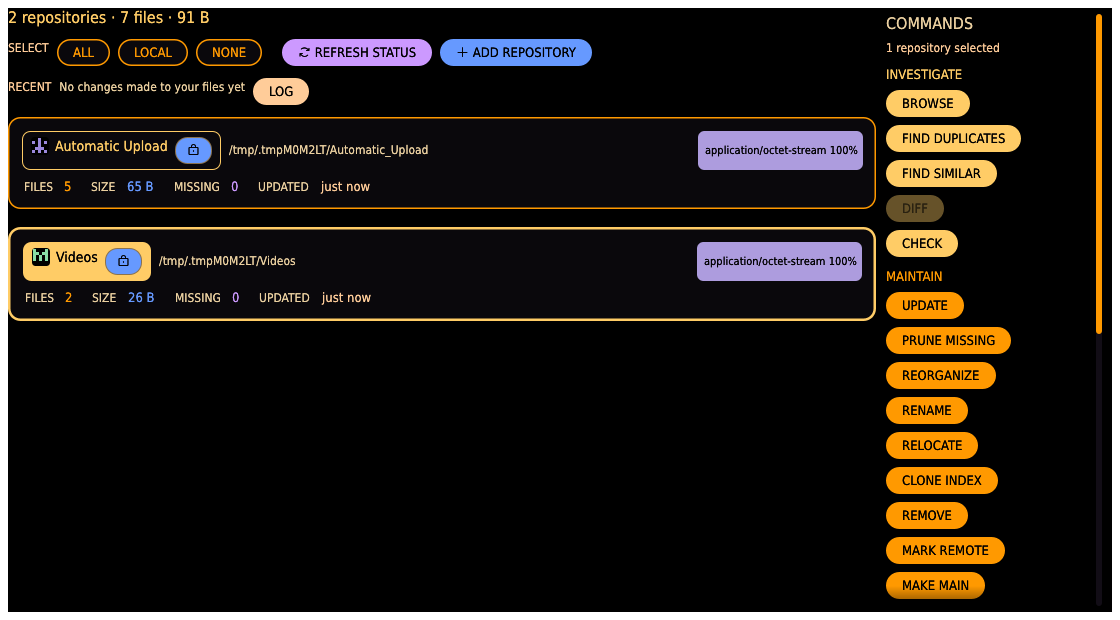
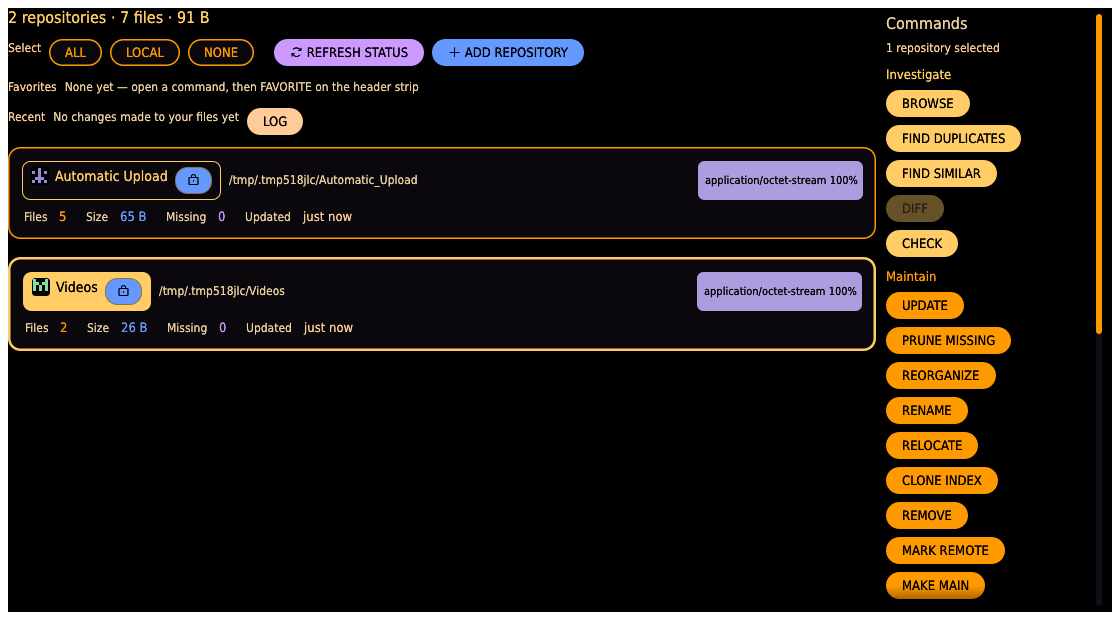
Keep LCARS as skin: header bars instead of elbow rails (#14)
A section is now a stadium header bar with its body on a panel; the elbow
rail and the concave corner are gone, so every board gets the rail's width
back and the start page's groups read as a bar over their cards. The
palette, the condensed font and the stadium buttons stay. List headers and
card stats read in sentence case (Commands, Investigate, Select, Favorites,
Recent, Files, Size, Missing, Updated, Sort); command names, buttons and
badges stay uppercase. Doc screenshots regenerated for the start page, the
group frame and both palettes.

Changed region(s): [[0.0, 0.0613, 0.8438, 0.5823], [0.7812, 0.0919, 0.875, 0.1532], [0.7812, 0.0306, 0.875, 0.0613]]

diff --git a/crates/dedup-gui/src/lcars.rs b/crates/dedup-gui/src/lcars.rs
@@ -11,7 +11,7 @@
 
 use crate::icon;
 use crate::theme;
-use egui::{Align2, Color32, CornerRadius, Rect, Sense, Stroke, StrokeKind, Vec2, pos2};
+use egui::{Align2, Color32, CornerRadius, Sense, Stroke, StrokeKind, Vec2, pos2};
 
 /// A dim, same-hue fill for the hover state of an unselected button.
 fn tint(accent: Color32) -> Color32 {
@@ -102,14 +102,13 @@ pub fn action_button(
     resp
 }
 
-/// Rail width, header-bar height, and the concave inner-elbow radius (points).
-const RAIL_W: f32 = 16.0;
+/// Header-bar height (points).
 const HEAD_H: f32 = 22.0;
-const ELBOW_R: f32 = 12.0;
 
-/// A section framed by the LCARS elbow rail. `title` is set into the header cap
-/// bar (black on `accent`); `add` renders the section body, inset to the right of
-/// the rail and below the header.
+/// A titled section (ADR 0004: LCARS as skin, not layout): a stadium header
+/// bar in `accent` with the title set into it, and the body on a panel below.
+/// The elbow rail that used to run down the left is gone — it cost every
+/// board a rail's width and framed nothing a header bar does not.
 ///
 /// Every section is collapsible: clicking the header bar folds the body down to
 /// a single stadium bar (the caret before the title shows the state), and the
@@ -214,27 +213,28 @@ pub fn section_lcars_folding<R>(
     out
 }
 
-/// The open form of a section: elbow chrome, caret-down before the title, and
-/// the clickable header bar whose response is returned alongside the body's
-/// result.
+/// The open form of a section: the header bar with a caret-down before the
+/// title, and the body on its panel; the clickable header bar's response is
+/// returned alongside the body's result.
 fn section_impl<R>(
     ui: &mut egui::Ui,
     title: &str,
     accent: Color32,
     add: impl FnOnce(&mut egui::Ui) -> R,
 ) -> (R, egui::Response) {
-    // Reserve a paint slot *behind* the body: the elbow chrome (and the dark body
-    // background that forms the concave curve) draw here, so the body's own
-    // widgets always render on top of it and are never overpainted.
-    let bg = ui.painter().add(egui::Shape::Noop);
+    let header = header_bar(ui, &format!("{} {title}", icon::CARET_DOWN), title, accent);
     let inner = egui::Frame::new()
-        // No fill — the body-panel shape painted into `bg` is the background.
+        .fill(theme::panel())
+        .corner_radius(CornerRadius {
+            nw: 0,
+            ne: 0,
+            sw: 8,
+            se: 8,
+        })
         .inner_margin(egui::Margin {
-            // Clear the rail *and* the concave elbow so the first item isn't
-            // clipped by the curve; still hug the header vertically.
-            left: (RAIL_W + ELBOW_R + 2.0) as i8,
+            left: 10,
             right: 10,
-            top: (HEAD_H + 3.0) as i8,
+            top: 8,
             bottom: 10,
         })
         .outer_margin(egui::Margin {
@@ -244,35 +244,17 @@ fn section_impl<R>(
             bottom: 8,
         })
         .show(ui, |ui| {
-            // Always claim the full panel width, so the elbow rail/header spans
-            // the whole panel even when the body's own content is narrow.
+            // Always claim the full panel width, so the header bar spans the
+            // whole panel even when the body's own content is narrow.
             ui.set_min_width(ui.available_width());
             add(ui)
         });
-    let r = inner.response.rect;
-    let painted = format!("{} {title}", icon::CARET_DOWN);
-    ui.painter()
-        .set(bg, egui::Shape::Vec(elbow_shapes(ui, r, &painted, accent)));
-    // Expose the painted title to accesskit (so tests and screen readers can find
-    // the section by name) without affecting layout. The whole header bar is
-    // the collapse click target.
-    let title_rect = Rect::from_min_max(
-        pos2(r.min.x + RAIL_W, r.min.y),
-        pos2(r.max.x, r.min.y + HEAD_H),
-    );
-    let header = ui.interact(
-        title_rect,
-        ui.id().with(("lcars_title", title)),
-        Sense::click(),
-    );
-    header.widget_info(|| egui::WidgetInfo::labeled(egui::WidgetType::Label, true, title));
     (inner.inner, header)
 }
 
-/// The collapsed form of a collapsible section: just the header bar, a full
-/// stadium with a "click to open" caret before the title. Same width and bottom
-/// spacing as the open section, so collapsing doesn't shift siblings sideways.
-fn collapsed_header(ui: &mut egui::Ui, title: &str, accent: Color32) -> egui::Response {
+/// The full-width stadium header bar of a section, `painted` set into it in
+/// the accent's ink; `title` is what accesskit (tests, screen readers) sees.
+fn header_bar(ui: &mut egui::Ui, painted: &str, title: &str, accent: Color32) -> egui::Response {
     let (rect, resp) =
         ui.allocate_exact_size(Vec2::new(ui.available_width(), HEAD_H), Sense::click());
     if ui.is_rect_visible(rect) {
@@ -284,77 +266,22 @@ fn collapsed_header(ui: &mut egui::Ui, title: &str, accent: Color32) -> egui::Re
         let p = ui.painter();
         p.rect_filled(rect, CornerRadius::same((HEAD_H / 2.0) as u8), fill);
         p.text(
-            pos2(rect.min.x + RAIL_W + 10.0, rect.center().y),
+            pos2(rect.min.x + 12.0, rect.center().y),
             Align2::LEFT_CENTER,
-            format!("{} {title}", icon::CARET_RIGHT),
+            painted,
             egui::FontId::proportional(13.0),
             theme::ink_on(accent),
         );
     }
     resp.widget_info(|| egui::WidgetInfo::labeled(egui::WidgetType::Label, true, title));
-    ui.add_space(8.0); // match the open section's bottom outer margin
     resp
 }
 
-/// The elbow chrome as a back-to-front shape list: accent rail, accent header cap
-/// bar, the dark body panel (its rounded top-left corner reveals the accent
-/// behind it — the concave elbow), and the title. Painted behind the body.
-fn elbow_shapes(ui: &egui::Ui, rect: Rect, title: &str, accent: Color32) -> Vec<egui::Shape> {
-    let out = (RAIL_W / 2.0) as u8; // rounded outer corners
-    let cap = (HEAD_H / 2.0) as u8; // rounded right cap on the header bar
-    let galley = ui.painter().layout_no_wrap(
-        title.to_owned(),
-        egui::FontId::proportional(13.0),
-        theme::ink_on(accent),
-    );
-    // Safety net: the panel is always full-width (see `section_lcars`), so this
-    // only bites for a title too long even for that — widen the chrome rather
-    // than let the galley overflow past the header bar uncontained.
-    let min_width = RAIL_W + 10.0 + galley.size().x + 10.0;
-    let rect = if rect.width() < min_width {
-        Rect::from_min_max(rect.min, pos2(rect.min.x + min_width, rect.max.y))
-    } else {
-        rect
-    };
-    let rail = Rect::from_min_max(rect.min, pos2(rect.min.x + RAIL_W, rect.max.y));
-    let head = Rect::from_min_max(rect.min, pos2(rect.max.x, rect.min.y + HEAD_H));
-    let body = Rect::from_min_max(pos2(rect.min.x + RAIL_W, rect.min.y + HEAD_H), rect.max);
-    let tpos = pos2(
-        rect.min.x + RAIL_W + 10.0,
-        rect.min.y + HEAD_H / 2.0 - galley.size().y / 2.0,
-    );
-    vec![
-        egui::Shape::rect_filled(
-            rail,
-            CornerRadius {
-                nw: out,
-                sw: out,
-                ne: 0,
-                se: 0,
-            },
-            accent,
-        ),
-        egui::Shape::rect_filled(
-            head,
-            CornerRadius {
-                nw: out,
-                ne: cap,
-                sw: 0,
-                se: cap,
-            },
-            accent,
-        ),
-        // The body panel's rounded top-left corner carves the concave elbow.
-        egui::Shape::rect_filled(
-            body,
-            CornerRadius {
-                nw: ELBOW_R as u8,
-                ne: 0,
-                sw: 0,
-                se: 0,
-            },
-            theme::panel(),
-        ),
-        egui::Shape::galley(tpos, galley, theme::ink_on(accent)),
-    ]
+/// The collapsed form of a collapsible section: just the header bar, with a
+/// "click to open" caret before the title. Same width and bottom spacing as
+/// the open section, so collapsing doesn't shift siblings sideways.
+fn collapsed_header(ui: &mut egui::Ui, title: &str, accent: Color32) -> egui::Response {
+    let resp = header_bar(ui, &format!("{} {title}", icon::CARET_RIGHT), title, accent);
+    ui.add_space(8.0); // match the open section's bottom outer margin
+    resp
 }

diff --git a/crates/dedup-gui/src/app.rs b/crates/dedup-gui/src/app.rs
@@ -661,7 +661,7 @@ impl DedupApp {
         let verbosity = self.tooltip_verbosity;
         let facts = self.repo_facts();
         ui.horizontal_wrapped(|ui| {
-            ui.label(RichText::new("FAVORITES").color(theme::tan()).size(12.0));
+            ui.label(RichText::new("Favorites").color(theme::tan()).size(12.0));
             if self.favorites.is_empty() {
                 ui.label(
                     RichText::new("None yet — open a command, then FAVORITE on the header strip")
@@ -1969,7 +1969,7 @@ impl DedupApp {
                     .auto_shrink([false, false])
                     .show(ui, |ui| {
                         ui.label(
-                            RichText::new("COMMANDS")
+                            RichText::new("Commands")
                                 .color(theme::text())
                                 .size(16.0)
                                 .strong(),
@@ -2060,7 +2060,7 @@ impl DedupApp {
     fn last_runs_row(&mut self, ui: &mut egui::Ui) {
         let verbosity = self.tooltip_verbosity;
         ui.horizontal_wrapped(|ui| {
-            ui.label(RichText::new("RECENT").color(theme::tan()).size(12.0));
+            ui.label(RichText::new("Recent").color(theme::tan()).size(12.0));
             if self.last_runs.is_empty() {
                 ui.label(
                     RichText::new("No changes made to your files yet")
@@ -2102,7 +2102,7 @@ impl DedupApp {
     fn selection_row(&mut self, ui: &mut egui::Ui, actions: &mut Vec<Action>) {
         let verbosity = self.tooltip_verbosity;
         ui.horizontal_wrapped(|ui| {
-            ui.label(RichText::new("SELECT").color(theme::tan()).size(12.0));
+            ui.label(RichText::new("Select").color(theme::tan()).size(12.0));
             if crate::lcars::toggle_button(ui, "ALL", false, theme::orange())
                 .explain(
                     verbosity,
@@ -2475,7 +2475,7 @@ impl DedupApp {
                 ui.horizontal(|ui| {
                     stat(
                         ui,
-                        "FILES",
+                        "Files",
                         &row.stats.file_count.to_string(),
                         theme::orange(),
                         "Indexed files (missing files excluded)",
@@ -2486,7 +2486,7 @@ impl DedupApp {
                     );
                     stat(
                         ui,
-                        "SIZE",
+                        "Size",
                         &format_size(row.stats.total_size),
                         theme::blue(),
                         "Total size of indexed files",
@@ -2496,7 +2496,7 @@ impl DedupApp {
                     );
                     stat(
                         ui,
-                        "MISSING",
+                        "Missing",
                         &row.stats.missing_count.to_string(),
                         theme::lilac(),
                         "Indexed before but no longer on disk",
@@ -2508,7 +2508,7 @@ impl DedupApp {
                     let exact = format_last_scan(row.stats.last_scan_ms);
                     stat(
                         ui,
-                        "UPDATED",
+                        "Updated",
                         &scan_age(row.stats.last_scan_ms, now_ms()),
                         theme::tan(),
                         &exact,

diff --git a/crates/dedup-gui/src/browse_view.rs b/crates/dedup-gui/src/browse_view.rs
@@ -1129,7 +1129,7 @@ impl BrowseView {
         let (sort_col, sort_asc) = (self.sort_col, self.sort_asc);
         let mut clicked_header: Option<SortCol> = None;
         ui.horizontal_wrapped(|ui| {
-            ui.label(RichText::new("SORT").color(theme::text()).size(11.0));
+            ui.label(RichText::new("Sort").color(theme::text()).size(11.0));
             for (col, title) in cols {
                 if crate::util::sort_header(ui, title, sort_col == col, sort_asc).clicked() {
                     clicked_header = Some(col);
@@ -3012,7 +3012,9 @@ mod tests {
         let store_ui = Arc::clone(&store);
         let mut init = false;
         let mut h = Harness::builder()
-            .with_size(egui::vec2(1000.0, 1000.0))
+            // Tall enough that the second board row sits above the preview
+            // dock: the board draws rows at their full height now.
+            .with_size(egui::vec2(1000.0, 1300.0))
             .build_ui_state(
                 move |ui, view: &mut BrowseView| {
                     if !init {
@@ -3020,7 +3022,7 @@ mod tests {
                         crate::theme::apply(ui.ctx(), crate::theme::DARK);
                         init = true;
                     }
-                    ui.allocate_ui(egui::vec2(ui.available_width(), 900.0), |ui| {
+                    ui.allocate_ui(egui::vec2(ui.available_width(), 1200.0), |ui| {
                         view.show(ui, &store_ui, TooltipVerbosity::default());
                     });
                 },

diff --git a/crates/dedup-gui/src/board.rs b/crates/dedup-gui/src/board.rs
@@ -1533,7 +1533,7 @@ fn controls_bar(
             }
             ui.add_space(12.0);
         }
-        ui.label(RichText::new("SORT").color(theme::text()).size(11.0));
+        ui.label(RichText::new("Sort").color(theme::text()).size(11.0));
         if two_sided {
             for (is_left, label) in [(true, "LEFT"), (false, "RIGHT")] {
                 if crate::lcars::toggle_button(
@@ -1873,7 +1873,7 @@ mod tests {
             );
         harness.run_steps(2);
         assert!(
-            harness.query_by_label("SORT").is_none(),
+            harness.query_by_label("Sort").is_none(),
             "a listing sorts itself: no sort bar"
         );
         let zulu = harness.get_by_label_contains("zulu/0").rect();

diff --git a/crates/dedup-gui/src/start_page.rs b/crates/dedup-gui/src/start_page.rs
@@ -23,10 +23,10 @@ pub(crate) enum Intent {
 impl Intent {
     fn label(self) -> &'static str {
         match self {
-            Intent::Investigate => "INVESTIGATE",
-            Intent::Maintain => "MAINTAIN",
-            Intent::Move => "MOVE",
-            Intent::Clean => "CLEAN",
+            Intent::Investigate => "Investigate",
+            Intent::Maintain => "Maintain",
+            Intent::Move => "Move",
+            Intent::Clean => "Clean",
         }
     }
 

diff --git a/CHANGELOG.md b/CHANGELOG.md
@@ -58,6 +58,12 @@ All notable changes to the `dedup-rs` project will be documented in this file.
   or its name — opens the viewer; the right-click menu is the same as before
   plus COPY NAME. Everything scrolls as one list instead of a sideways strip
   per group.
+- **LCARS stays as the skin, not as layout law.** The palette, the
+  condensed font and the stadium buttons remain; the elbow rail that ran
+  down the left of every section is gone, so a section is a header bar with
+  its body on a panel and every board gets the rail's width back. List
+  headers and card stats read in sentence case (Commands, Investigate,
+  Files, Updated); command names, buttons and badges stay uppercase.
 - **The start page states the facts before you choose.** One line over the
   cards sums the repositories, files and bytes the app looks after. A card's
   UPDATED stat reads as people say it — "just now", "3 hours ago", "9 days

diff --git a/docs/gui/start-page.md b/docs/gui/start-page.md
@@ -144,7 +144,7 @@ A **backup group** links one **main** repository to one or more **backup** repos
 - **LEAVE GROUP** (a backup selected) — take it back out of its group.
 - **UNGROUP** (a main selected) — disband the group; every repository stays, just unlinked.
 - A group is framed by its own section, titled with the group name: the main's card and
-  every backup's card sit inside one rail, so a group reads as a single block and an
+  every backup's card sit under one header bar, so a group reads as a single block and an
   ungrouped repository as a bare card. Groups start **folded** — the list stays about your
   originals — and clicking the section header opens one. **SELECT GROUP** inside the frame
   selects the main and every backup at once, which is what enables GROUP SYNC.

diff --git a/ai/improvements.md b/ai/improvements.md
@@ -29,5 +29,5 @@ Start page hub, one command list, one board. Landed one child per commit, in ord
 - [x] #11 Duplicates on the board
 - [x] #12 Transfer and Grooming plans on the board (already routed through `board.rs`; verified)
 - [x] #13 Diff on the board (already routed through `board.rs`; `diff_board.rs` holds the row model and popups only; verified)
-- [ ] #14 Skin pass
+- [x] #14 Skin pass
 - [ ] #15 GUI guide rewritten
